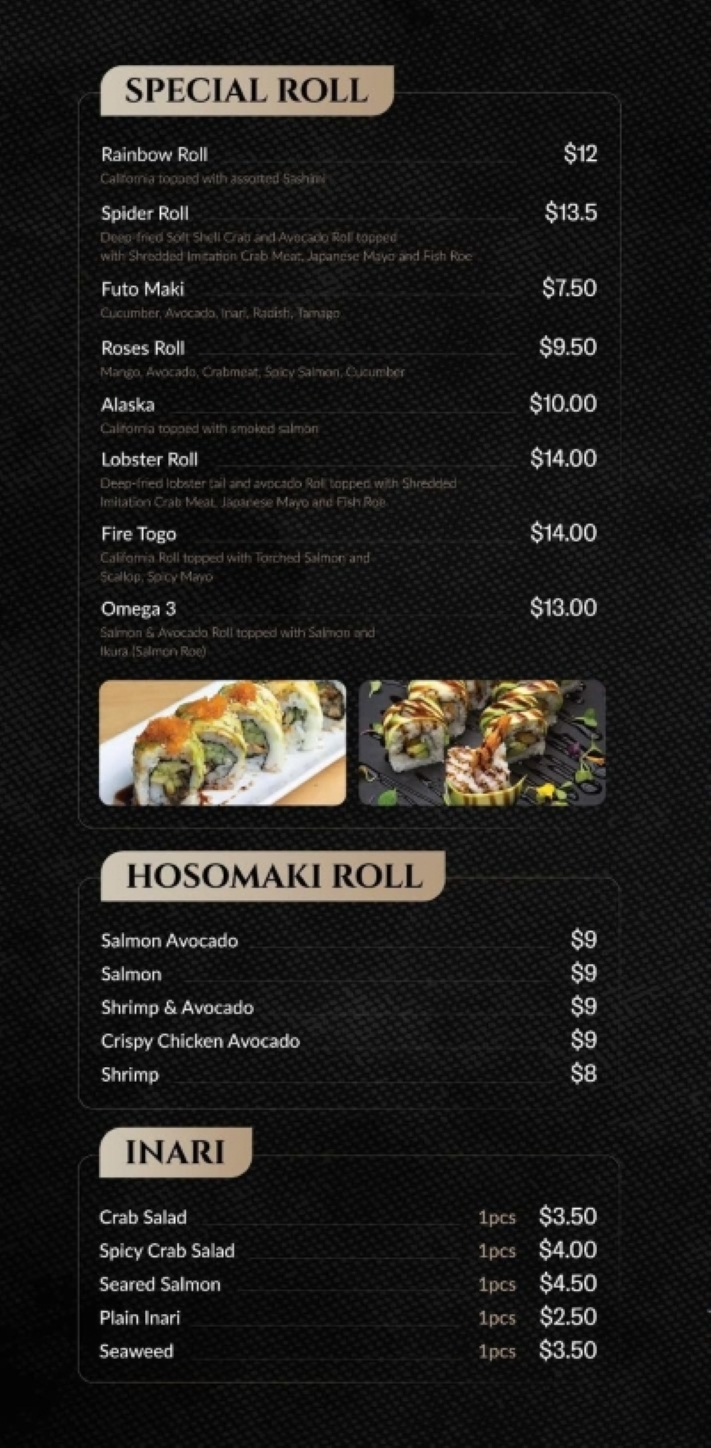
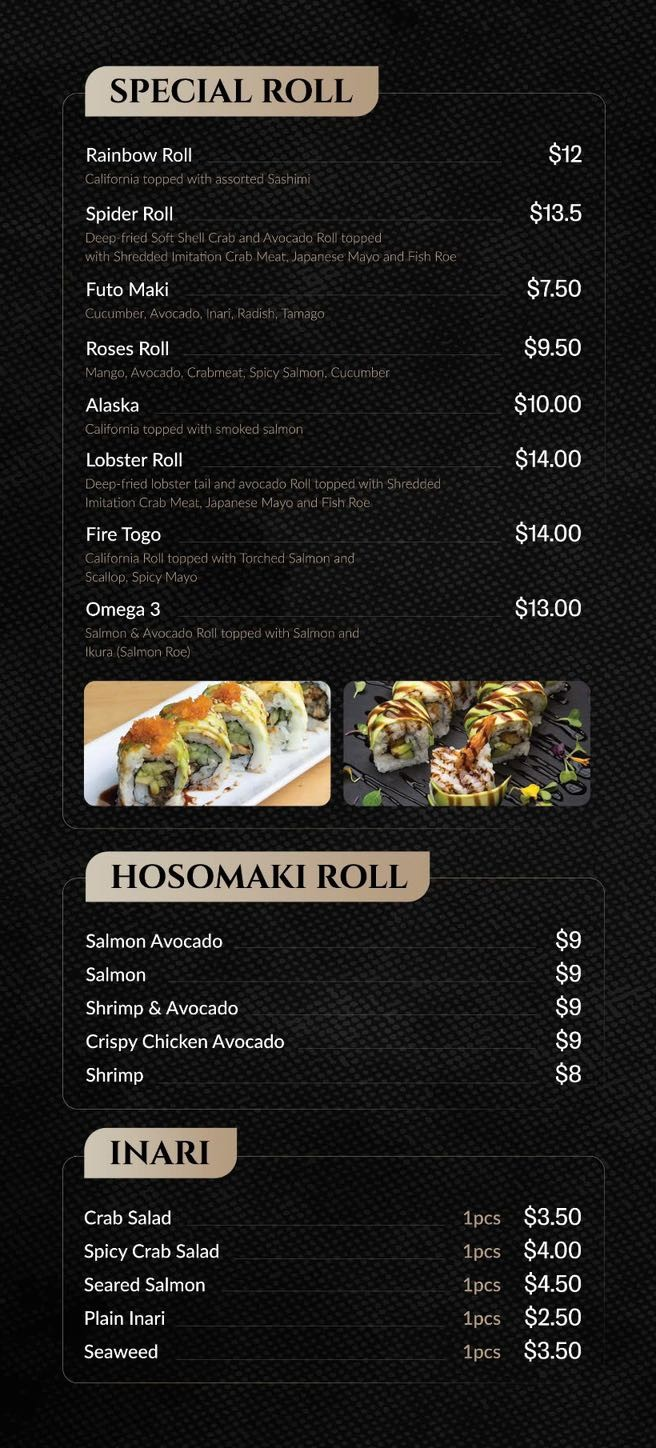
update index.html v1

diff --git a/index.html b/index.html
@@ -1,10 +1,4 @@
 <!DOCTYPE html>
-<!--
-  FILE          : index.html
-  PROJECT       : Phone‑safe Gallery (no crop under bars)
-  NOTE          : Keeps the photo away from the top/bottom browser bars and notches.
-                  Smaller arrow hit‑zones to avoid accidental taps.
--->
 <html lang="en">
   <head>
     <meta charset="utf-8" />
@@ -12,68 +6,109 @@
     <meta name="theme-color" content="#000000" />
     <title>Gallery</title>
     <style>
-      :root {
+      :root{
         --ink:#fff; --muted:#d6d6d6; --accent:#70b5ff;
         --safe-top: env(safe-area-inset-top, 0px);
         --safe-bottom: env(safe-area-inset-bottom, 0px);
-        --ui-gap: 24px;            /* extra space from bars */
-        --nav-w: 14vw;             /* arrow strip width */
-        --nav-h: 40svh;            /* arrow strip height */
+        --ui-gap: 24px;      /* extra space from bars */
+        --nav-w: 14vw;       /* arrow strip width */
+        --nav-h: 40svh;      /* arrow strip height */
       }
-      *{ box-sizing:border-box }
-      html,body{ height:100%; }
-      body{ margin:0; background:#000; color:var(--ink); min-height:100dvh; overflow:hidden; overscroll-behavior-y:none; }
 
-      /* Phone-safe viewport: adds top/bottom padding equal to safe areas + gap */
-      #viewport{ position:fixed; inset:0; height:var(--vh, 100svh); padding: calc(var(--safe-top) + var(--ui-gap)) 0 calc(var(--safe-bottom) + var(--ui-gap)); }
+      *{ box-sizing:border-box }
+      html,body{ height:100% }
+      body{
+        margin:0; background:#000; color:var(--ink);
+        min-height:100dvh;
+        overflow:hidden;           /* page itself doesn’t scroll */
+        overscroll-behavior-y:none;
+      }
+
+      /* Viewport stays fixed so arrows/dots remain visible */
+      #viewport{
+        position:fixed; inset:0;
+        height:var(--vh, 100svh);
+        padding: calc(var(--safe-top) + var(--ui-gap)) 0
+                 calc(var(--safe-bottom) + var(--ui-gap));
+      }
       .stage{ width:100vw; height:100%; position:relative; }
 
-      .track{ height:100%; width:100%; display:grid; grid-auto-flow:column; grid-auto-columns:100vw; will-change:transform; transition:transform .26s ease; }
+      .track{
+        height:100%; width:100%;
+        display:grid; grid-auto-flow:column; grid-auto-columns:100vw;
+        will-change:transform; transition:transform .26s ease;
+        touch-action: pan-y; /* allow vertical scrolling inside slides */
+      }
       @media (prefers-reduced-motion:reduce){ .track{ transition:none } }
 
       .slide{ width:100vw; height:100%; position:relative }
-      .slide figure{ margin:0; width:100%; height:100% }
-      .slide img{ width:100%; height:100%; object-fit: var(--fit); object-position:center; display:block; background:#000 }
+      .slide figure{
+        margin:0; width:100%; height:100%;
+        overflow-y:auto;                /* <-- vertical scroll inside slide */
+        -webkit-overflow-scrolling:touch;
+      }
+      .slide img{
+        width:100%; height:auto;        /* fit by width; tall images extend below */
+        display:block; background:#000;
+      }
 
-      /* Optional caption */
-      .slide figcaption{ position:absolute; left:0; right:0; bottom:0; padding:10px 12px 10px; font-size:14px; line-height:1.35; color:var(--muted); background:linear-gradient(180deg, rgba(0,0,0,0) 0%, rgba(0,0,0,.55) 60%, rgba(0,0,0,.8) 100%) }
+      /* (Caption is optional; hide if you don’t want it) */
+      .slide figcaption{
+        position:absolute; left:0; right:0; bottom:0;
+        padding:10px 12px 10px; font-size:14px; line-height:1.35; color:var(--muted);
+        background:linear-gradient(180deg, rgba(0,0,0,0) 0%, rgba(0,0,0,.55) 60%, rgba(0,0,0,.8) 100%);
+        display:none; /* set to block if you need captions */
+      }
 
       /* Slimmer arrow hit-boxes */
       .nav{ position:absolute; inset:0; pointer-events:none }
-      .nav button{ pointer-events:auto; position:absolute; top:50%; transform:translateY(-50%); width:min(var(--nav-w),100px); height:var(--nav-h); border:none; background:transparent; color:var(--ink); font-size:32px; display:grid; place-items:center; opacity:.9; cursor:pointer; border-radius:14px }
+      .nav button{
+        pointer-events:auto; position:absolute; top:50%; transform:translateY(-50%);
+        width:min(var(--nav-w),100px); height:var(--nav-h);
+        border:none; background:transparent; color:var(--ink);
+        font-size:32px; display:grid; place-items:center; opacity:.9; cursor:pointer; border-radius:14px;
+      }
       .nav [data-dir="prev"]{ left:3.5vw }
       .nav [data-dir="next"]{ right:3.5vw }
       .nav button:focus-visible{ outline:3px solid var(--accent); outline-offset:2px }
 
-      /* Dots */
-      .dots{ position:absolute; left:0; right:0; bottom:calc(12px + var(--safe-bottom) + var(--ui-gap)); display:flex; gap:10px; justify-content:center; pointer-events:auto }
+      /* Dots float above bottom bar */
+      .dots{
+        position:absolute; left:0; right:0;
+        bottom:calc(12px + var(--safe-bottom) + var(--ui-gap));
+        display:flex; gap:10px; justify-content:center; pointer-events:auto;
+      }
       .dot{ width:10px; height:10px; border-radius:999px; background:rgba(255,255,255,.35); border:0; cursor:pointer }
       .dot[aria-selected="true"]{ background:rgba(255,255,255,.9) }
       .dot:focus-visible{ outline:3px solid var(--accent); outline-offset:3px }
 
       .sr-only{ position:absolute; width:1px; height:1px; padding:0; margin:-1px; overflow:hidden; clip:rect(0,0,0,0); border:0 }
     </style>
+
+    <!-- Solid mobile viewport height -->
+    <script>
+      (function () {
+        function setVH() {
+          const h = (window.visualViewport ? window.visualViewport.height : window.innerHeight) + 'px';
+          document.documentElement.style.setProperty('--vh', h);
+        }
+        setVH();
+        window.visualViewport && visualViewport.addEventListener('resize', setVH);
+        window.visualViewport && visualViewport.addEventListener('scroll', setVH);
+        window.addEventListener('orientationchange', setVH);
+      })();
+    </script>
   </head>
-  <script>
-    (function () {
-      function setVH() {
-        const h = (window.visualViewport ? window.visualViewport.height : window.innerHeight) + 'px';
-        document.documentElement.style.setProperty('--vh', h);
-      }
-      setVH();
-      window.visualViewport && visualViewport.addEventListener('resize', setVH);
-      window.visualViewport && visualViewport.addEventListener('scroll', setVH);
-      window.addEventListener('orientationchange', setVH);
-    })();
-  </script>  
   <body>
     <div id="viewport">
       <div class="stage" role="group" aria-roledescription="carousel" aria-label="Photo gallery" tabindex="0">
-        <div id="track" class="track" aria-live="off"><!-- slides injected by JS --></div>
+        <div id="track" class="track" aria-live="off"></div>
+
         <div class="nav" aria-hidden="false">
           <button type="button" class="navBtn" data-dir="prev" aria-label="Previous slide">&#x276E;</button>
           <button type="button" class="navBtn" data-dir="next" aria-label="Next slide">&#x276F;</button>
         </div>
+
         <div id="dots" class="dots" role="tablist" aria-label="Slide thumbnails"></div>
       </div>
     </div>
@@ -81,13 +116,14 @@
     <div id="announcer" class="sr-only" aria-live="polite" aria-atomic="true"></div>
 
     <script>
+      // Use your existing images here
       const slides = [
-        { src: 'images/togo_menu_page1a.jpg', alt: 'Togo Sushi Menu Page 1', caption: 'Togo Sushi Menu Page 1' },
-        { src: 'images/togo_menu_page1b.jpg', alt: 'Togo Sushi Menu Page 1', caption: 'Togo Sushi Menu Page 1' },
-        { src: 'images/togo_menu_page1c.jpg', alt: 'Togo Sushi Menu Page 1', caption: 'Togo Sushi Menu Page 1' },
-        { src: 'images/togo_menu_page2a.jpg', alt: 'Togo Sushi Menu Page 2', caption: 'Togo Sushi Menu Page 2' },
-        { src: 'images/togo_menu_page2b.jpg', alt: 'Togo Sushi Menu Page 2', caption: 'Togo Sushi Menu Page 2' },
-        { src: 'images/togo_menu_page2c.jpg', alt: 'Togo Sushi Menu Page 2', caption: 'Togo Sushi Menu Page 2' },
+        { src: 'images/togo_menu_page1a.jpg', alt: 'Togo Sushi Menu Page 1' },
+        { src: 'images/togo_menu_page1b.jpg', alt: 'Togo Sushi Menu Page 1' },
+        { src: 'images/togo_menu_page1c.jpg', alt: 'Togo Sushi Menu Page 1' },
+        { src: 'images/togo_menu_page2a.jpg', alt: 'Togo Sushi Menu Page 2' },
+        { src: 'images/togo_menu_page2b.jpg', alt: 'Togo Sushi Menu Page 2' },
+        { src: 'images/togo_menu_page2c.jpg', alt: 'Togo Sushi Menu Page 2' },
       ];
 
       const track = document.getElementById('track');
@@ -101,36 +137,71 @@
         slide.className = 'slide';
         slide.setAttribute('role','group');
         slide.setAttribute('aria-roledescription','slide');
-        slide.setAttribute('aria-label',`Slide ${i+1} of ${total}: ${item.caption||''}`.trim());
+        slide.setAttribute('aria-label',`Slide ${i+1} of ${total}: ${item.alt||''}`.trim());
         slide.setAttribute('aria-hidden', i===index ? 'false' : 'true');
         const fig = document.createElement('figure');
-        const img = document.createElement('img'); img.loading='lazy'; img.decoding='async'; img.src=item.src; img.alt=item.alt||'';
+        const img = document.createElement('img');
+        img.loading='lazy'; img.decoding='async'; img.src=item.src; img.alt=item.alt||'';
         const cap = document.createElement('figcaption'); cap.textContent = item.caption || '';
         fig.appendChild(img); fig.appendChild(cap); slide.appendChild(fig);
         return slide;
       }
-      function createDotEl(i){ const b=document.createElement('button'); b.className='dot'; b.type='button'; b.setAttribute('role','tab'); b.setAttribute('aria-label',`Go to slide ${i+1}`); b.setAttribute('aria-selected', i===index ? 'true':'false'); b.addEventListener('click',()=>go(i)); return b; }
-      function render(){ track.innerHTML=''; dotsWrap.innerHTML=''; slides.forEach((s,i)=>{ track.appendChild(createSlideEl(s,i,slides.length)); dotsWrap.appendChild(createDotEl(i)); }); updatePosition(false); }
-      function announce(){ const s=slides[index]; announcer.textContent = `Slide ${index+1} of ${slides.length}. ${s.caption||''}`.trim(); }
-      function updateAria(){ [...track.children].forEach((el,i)=>el.setAttribute('aria-hidden', i===index ? 'false':'true')); [...dotsWrap.children].forEach((el,i)=>el.setAttribute('aria-selected', i===index ? 'true':'false')); }
-      function updatePosition(animate=true){ track.style.transition = (animate && !window.matchMedia('(prefers-reduced-motion: reduce)').matches) ? 'transform .26s ease' : 'none'; track.style.transform = `translateX(${-index*100}vw)`; updateAria(); announce(); }
+      function createDotEl(i){
+        const b=document.createElement('button');
+        b.className='dot'; b.type='button'; b.setAttribute('role','tab');
+        b.setAttribute('aria-label',`Go to slide ${i+1}`);
+        b.setAttribute('aria-selected', i===index ? 'true':'false');
+        b.addEventListener('click',()=>go(i)); return b;
+      }
+      function render(){ track.innerHTML=''; dotsWrap.innerHTML='';
+        slides.forEach((s,i)=>{ track.appendChild(createSlideEl(s,i,slides.length)); dotsWrap.appendChild(createDotEl(i)); });
+        updatePosition(false);
+      }
+      function announce(){ announcer.textContent = `Slide ${index+1} of ${slides.length}.`; }
+      function updateAria(){
+        [...track.children].forEach((el,i)=>el.setAttribute('aria-hidden', i===index ? 'false':'true'));
+        [...dotsWrap.children].forEach((el,i)=>el.setAttribute('aria-selected', i===index ? 'true':'false'));
+      }
+      function updatePosition(animate=true){
+        track.style.transition = (animate && !window.matchMedia('(prefers-reduced-motion: reduce)').matches) ? 'transform .26s ease' : 'none';
+        track.style.transform = `translateX(${-index*100}vw)`; updateAria(); announce();
+      }
       function go(i){ const total=slides.length; index = Math.max(0, Math.min(total-1, i)); updatePosition(); }
       const next=()=>go(index+1), prev=()=>go(index-1);
 
       // Keyboard
-      stage.addEventListener('keydown', e=>{ if(e.key==='ArrowRight'){ e.preventDefault(); next(); } else if(e.key==='ArrowLeft'){ e.preventDefault(); prev(); } });
+      stage.addEventListener('keydown', e=>{
+        if(e.key==='ArrowRight'){ e.preventDefault(); next(); }
+        else if(e.key==='ArrowLeft'){ e.preventDefault(); prev(); }
+      });
 
       // Buttons
       document.querySelectorAll('.navBtn').forEach(btn=>btn.addEventListener('click',()=> (btn.dataset.dir==='next'?next():prev())));
 
-      // Touch/Pointer swipe (dynamic threshold)
-      let startX=0, dx=0, isDown=false; const swipeThreshold=()=> Math.min(80, Math.max(40, Math.round(window.innerWidth*0.12)));
-      const onDown=x=>{ isDown=true; startX=x; dx=0; track.style.transition='none'; };
-      const onMove=x=>{ if(!isDown)return; dx=x-startX; track.style.transform=`translateX(calc(${-index*100}vw + ${dx}px))`; };
-      const onUp=()=>{ if(!isDown)return; isDown=false; Math.abs(dx)>swipeThreshold() ? (dx<0?next():prev()) : updatePosition(); };
-      track.addEventListener('pointerdown', e=>onDown(e.clientX));
-      window.addEventListener('pointermove', e=>onMove(e.clientX));
-      window.addEventListener('pointerup', onUp); window.addEventListener('pointercancel', onUp);
+      // Swipe with direction-lock (vertical = scroll, horizontal = slide)
+      let isDown=false, isSwiping=false, startX=0, startY=0, dx=0, dy=0;
+      const swipeThreshold=()=> Math.min(80, Math.max(40, Math.round(window.innerWidth*0.12)));
+      function onDown(e){ isDown=true; isSwiping=false; startX=e.clientX; startY=e.clientY; dx=dy=0; track.style.transition='none'; }
+      function onMove(e){
+        if(!isDown) return;
+        dx = e.clientX - startX; dy = e.clientY - startY;
+        if(!isSwiping){
+          if(Math.abs(dx) > Math.max(8, Math.abs(dy))){ // lock to horizontal
+            isSwiping = true; track.setPointerCapture && track.setPointerCapture(e.pointerId);
+          } else { return; } // let vertical scrolling happen naturally
+        }
+        track.style.transform = `translateX(calc(${-index*100}vw + ${dx}px))`;
+      }
+      function onUp(){
+        if(!isDown) return; isDown=false;
+        if(isSwiping && Math.abs(dx) > swipeThreshold()){ dx<0 ? next() : prev(); }
+        else { updatePosition(); }
+        isSwiping=false;
+      }
+      track.addEventListener('pointerdown', onDown);
+      window.addEventListener('pointermove', onMove, { passive:true });
+      window.addEventListener('pointerup', onUp);
+      window.addEventListener('pointercancel', onUp);
 
       render();
     </script>
